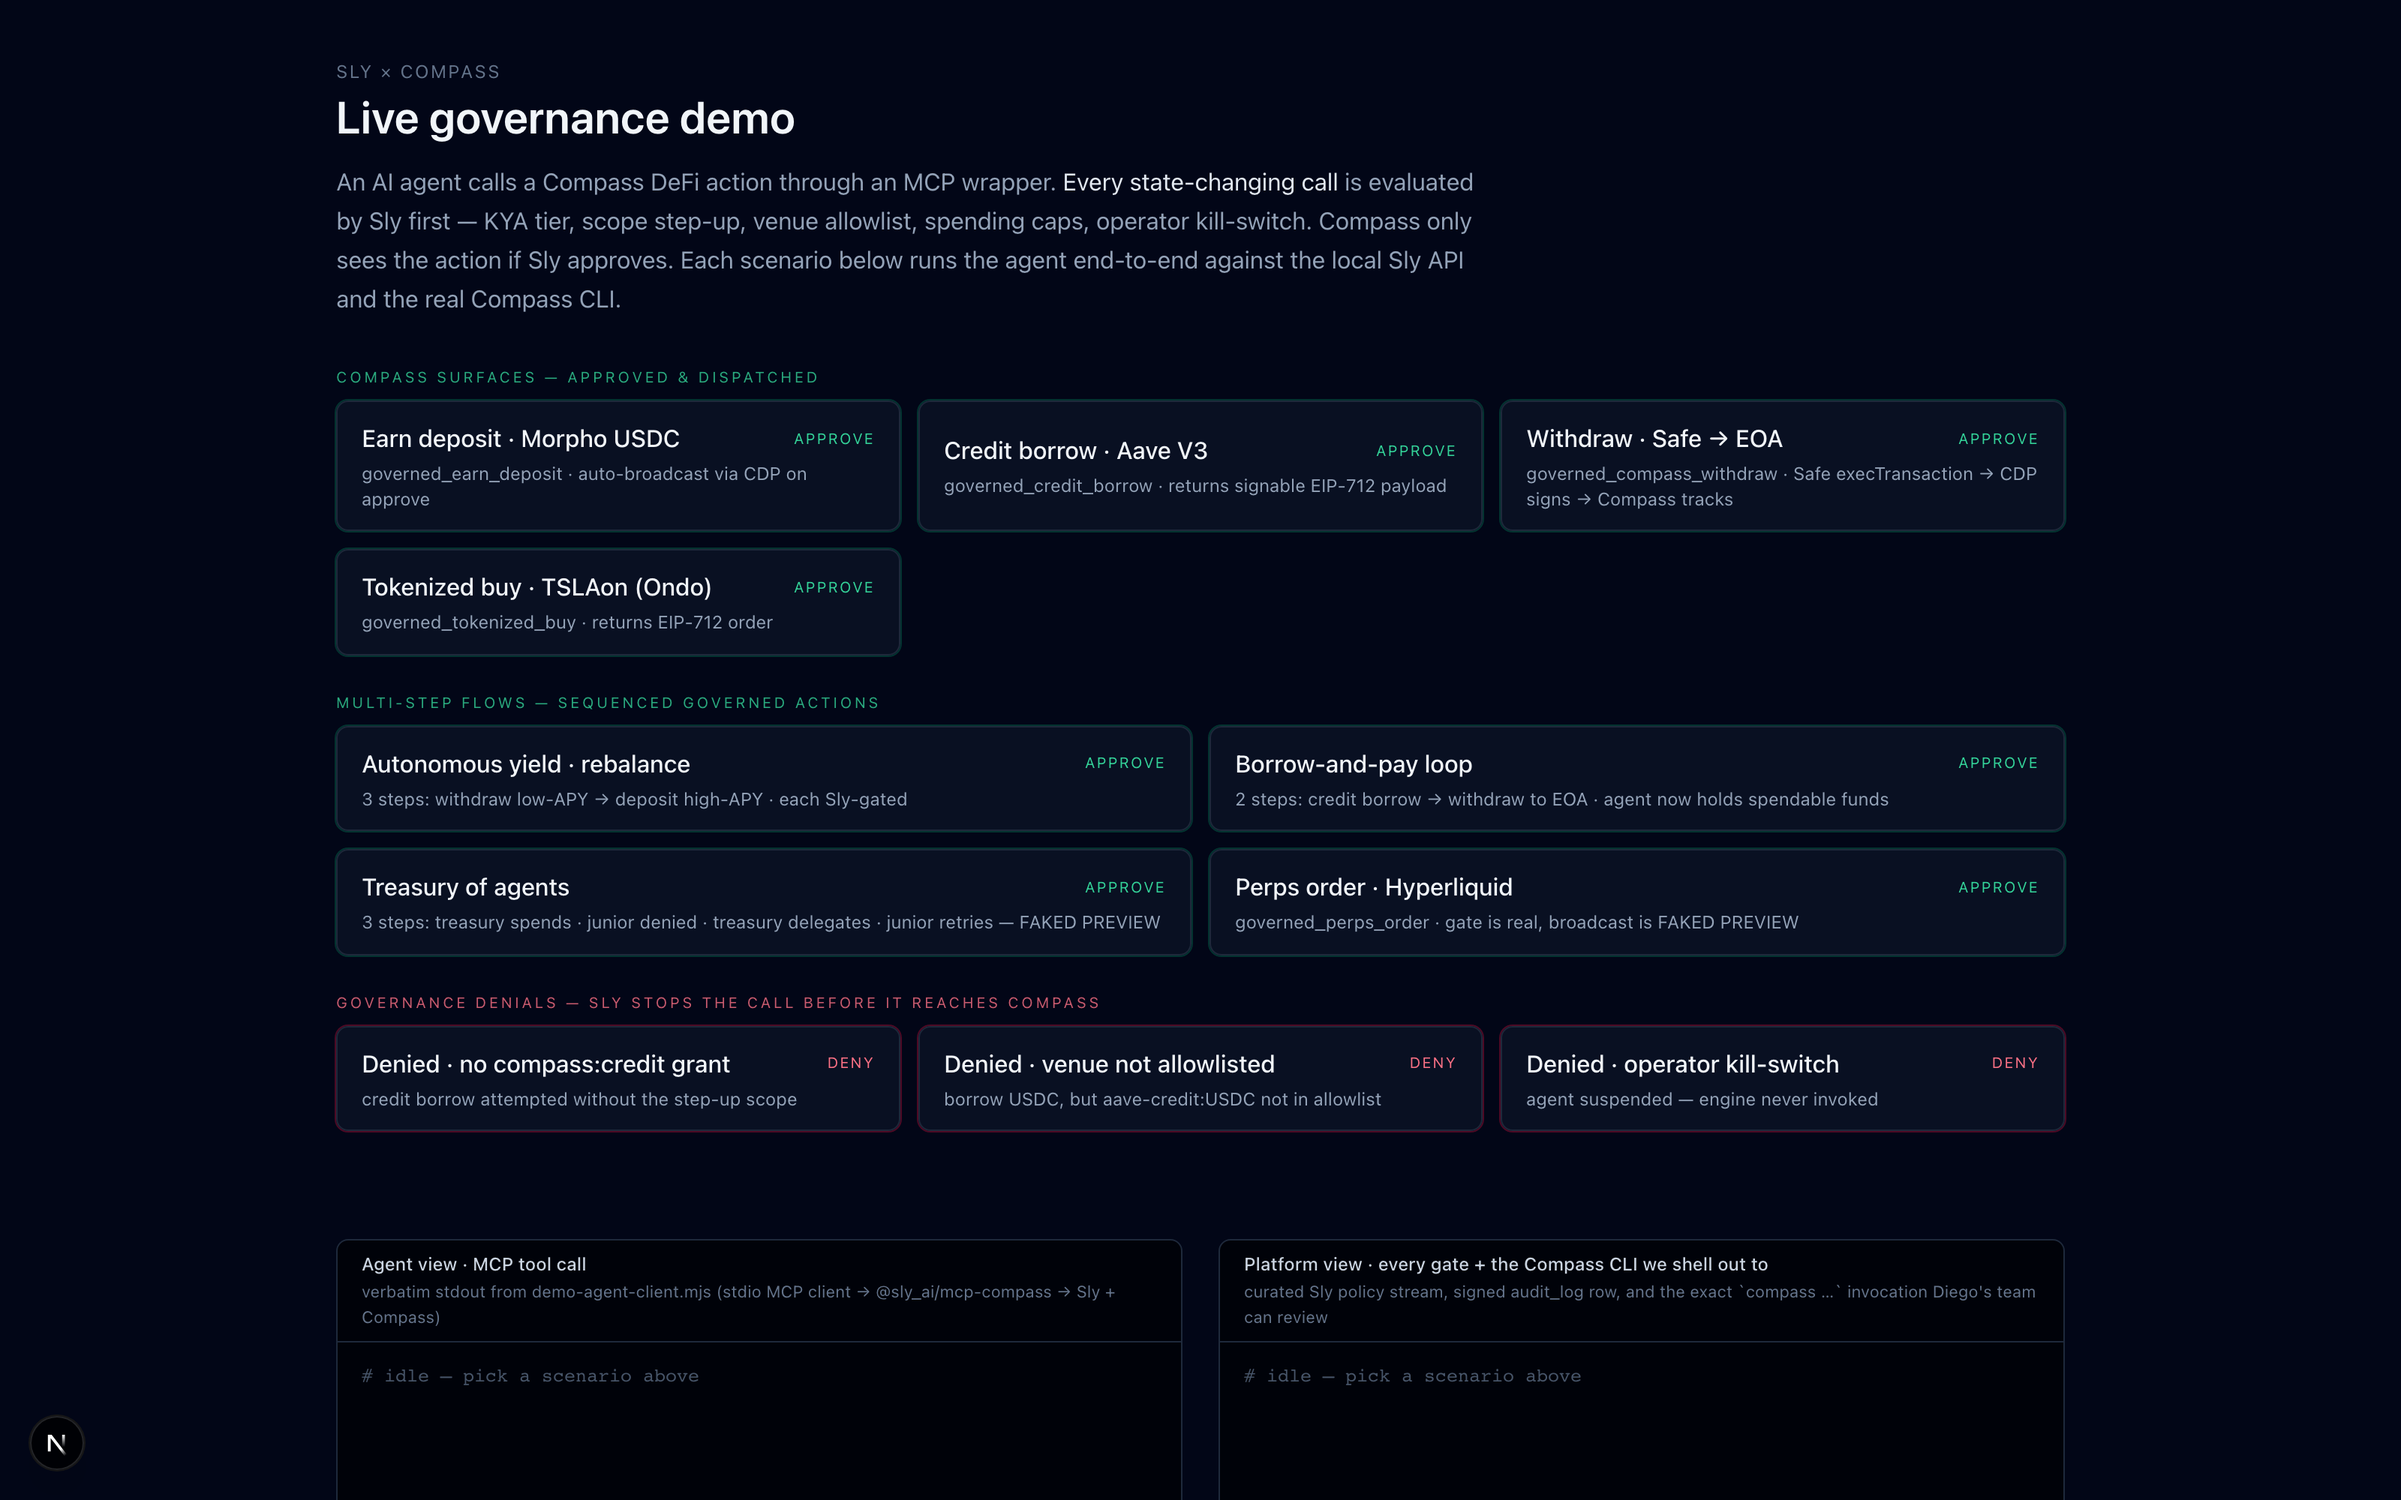
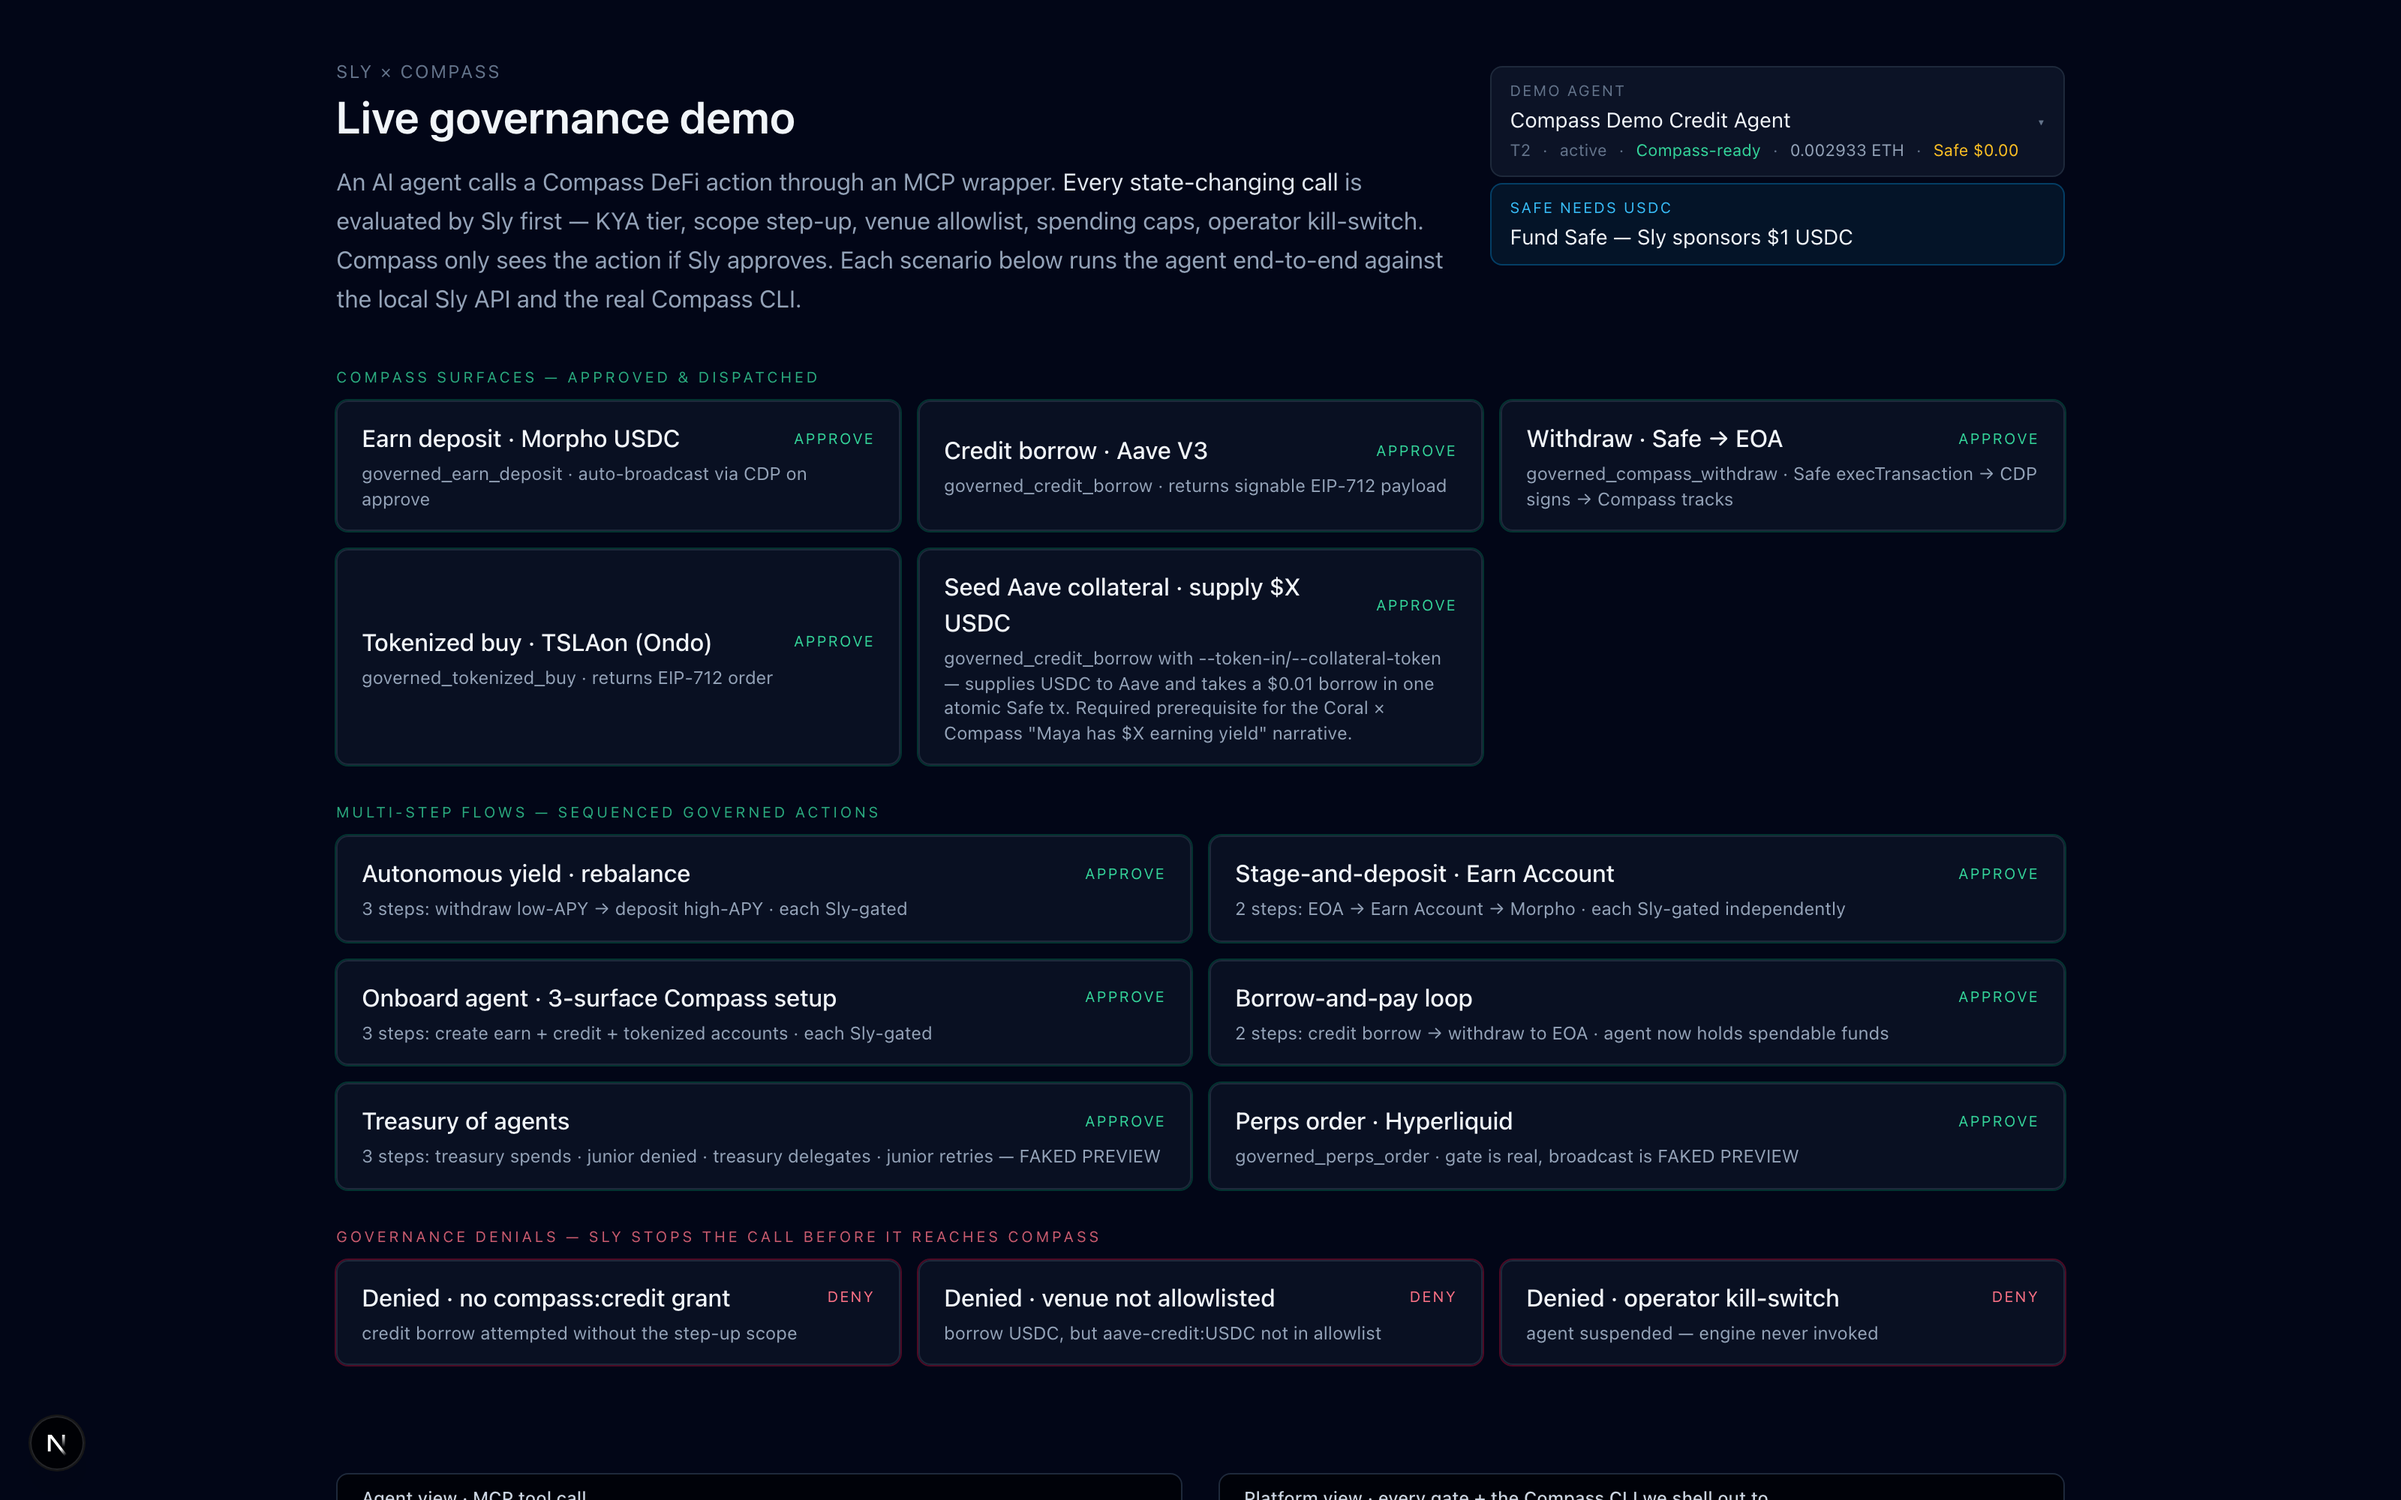
docs(coral-mobile, compass-live): refresh covers + sync scenarios list (#22)
coral-mobile:
- cover.png recaptured against the post-#21 \`/savings\` — savings hero
  reads "1,450.05 USDC" with the new USDC label, the LTV bar shows
  60.0% / 75% cap (real Aave debt from a prior test run), the Repay
  button is live, the agent thread heading is in frame.
- New cover.gif: 2.4s scroll from savings hero → agent thread →
  product card → back. README points to the GIF as the primary cover
  so GitHub renders it animated inline.

compass-live:
- cover.png recaptured. The scenario grid now shows all 14 buttons
  (5 single-action approve, 6 multi-step, 3 deny) plus the
  Fund Safe affordance — previously the cover only showed the older
  8-scenario layout.
- README "Eight scenarios" → "Fourteen scenarios". Tables now
  document the four scenarios that shipped after the original
  README: Withdraw · Safe → EOA, Seed Aave collateral · supply \$X
  USDC, Stage-and-deposit · Earn Account, Onboard agent · 3-surface
  Compass setup. New callout for the Fund Safe button.

diff --git a/compass-live/README.md b/compass-live/README.md
@@ -53,21 +53,27 @@ The two-pane runner spawns the Sly × Compass MCP server as a child process — 
 
 ## What you see
 
-Eight scenarios, click any to fire it. The left pane streams `demo-agent-client.mjs` stdout (an MCP stdio client → the `@sly_ai/mcp-compass` wrapper → Sly's policy gate → Compass). The right pane streams curated Sly events: `[precheck]` kill-switch · `[precheck]` scope step-up · `[engine]` spending policy · `[engine]` contract-type allowlist · `[decision]` → `[audit]` policy_evaluations row inserted · `[audit]` audit_log signed · `[exec] $ compass …` (the literal command) · `[compass]` payload returned · `[bilateral_receipt]` evaluation_id ⇄ tx_hash.
+Fourteen scenarios, click any to fire it. The left pane streams `demo-agent-client.mjs` stdout (an MCP stdio client → the `@sly_ai/mcp-compass` wrapper → Sly's policy gate → Compass). The right pane streams curated Sly events: `[precheck]` kill-switch · `[precheck]` scope step-up · `[engine]` spending policy · `[engine]` contract-type allowlist · `[decision]` → `[audit]` policy_evaluations row inserted · `[audit]` audit_log signed · `[exec] $ compass …` (the literal command) · `[compass]` payload returned · `[bilateral_receipt]` evaluation_id ⇄ tx_hash.
+
+Above the scenario list, a **Fund Safe — Sly sponsors $1 USDC** action appears whenever the Credit Safe is under-funded — one tap tops it up via the sandbox faucet so the credit / withdraw legs have something to move.
 
 ### Approve scenarios (single-action)
 
 | Button | What |
 |---|---|
 | Earn deposit · Morpho USDC | Sly approves, CDP signs + broadcasts on Base, real tx hash |
-| Credit borrow · Aave V3 | Sly approves, Compass returns the Permit2 EIP-712 payload (Permit2 signs are not auto-broadcast — by design) |
-| Tokenized buy · TSLAon (Ondo) | Sly approves, Compass returns an EIP-712 order payload |
+| Credit borrow · Aave V3 | Sly approves, Compass returns the Safe execTransaction; Sly signs + broadcasts via CDP |
+| Withdraw · Safe → EOA | `governed_compass_withdraw` — Safe execTransaction moves USDC back to the agent EOA, CDP signs + broadcasts |
+| Tokenized buy · TSLAon (Ondo) | Sly approves, Compass returns an EIP-712 order payload (caller-signed, not auto-broadcast) |
+| Seed Aave collateral · supply $X USDC | Atomic supply-then-borrow: deposits USDC into Aave V3 and takes a $0.01 borrow in one Safe tx. Required prereq for the **Coral × Compass** "Maya has $X earning yield" narrative. |
 
 ### Multi-step scenarios
 
 | Button | What |
 |---|---|
 | Autonomous yield · rebalance | Withdraw from Morpho (low APY) → Deposit into Aave V3 (high APY). Each step independently gated. |
+| Stage-and-deposit · Earn Account | EOA → Earn Account ($0.10 USDC stage) → Morpho vault ($0.05 USDC deposit). Two Sly gates, two receipts. |
+| Onboard agent · 3-surface Compass setup | Deploys the agent's Earn, Credit, and Tokenized Safes (three create-account txs). Each step is Sly-gated independently. The Credit Safe address ends up on the agent's wallet record — coral-mobile reads it from there. |
 | Borrow-and-pay loop | Credit borrow → Safe → EOA withdraw. Two receipts in one flow. |
 | Treasury of agents (FAKED PREVIEW) | Treasury borrows · junior denied · treasury delegates · junior retries. Hierarchical delegation is in our roadmap; the visual is a faked preview. |
 | Perps order · Hyperliquid (FAKED PREVIEW) | Gate is real, broadcast leg is stubbed (Hyperliquid signature scheme is roadmap). |

diff --git a/coral-mobile/README.md b/coral-mobile/README.md
@@ -4,7 +4,7 @@ Phone-framed mobile UI showing Maya — a user whose DeFi agent buys things on h
 
 > Part of [Sly-devs/sly-demos](https://github.com/Sly-devs/sly-demos). For the integration architecture, see [`_docs/compass-architecture.md`](../_docs/compass-architecture.md).
 
-![cover](./screenshots/cover.png)
+![cover](./screenshots/cover.gif)
 
 ## Prerequisites
 
